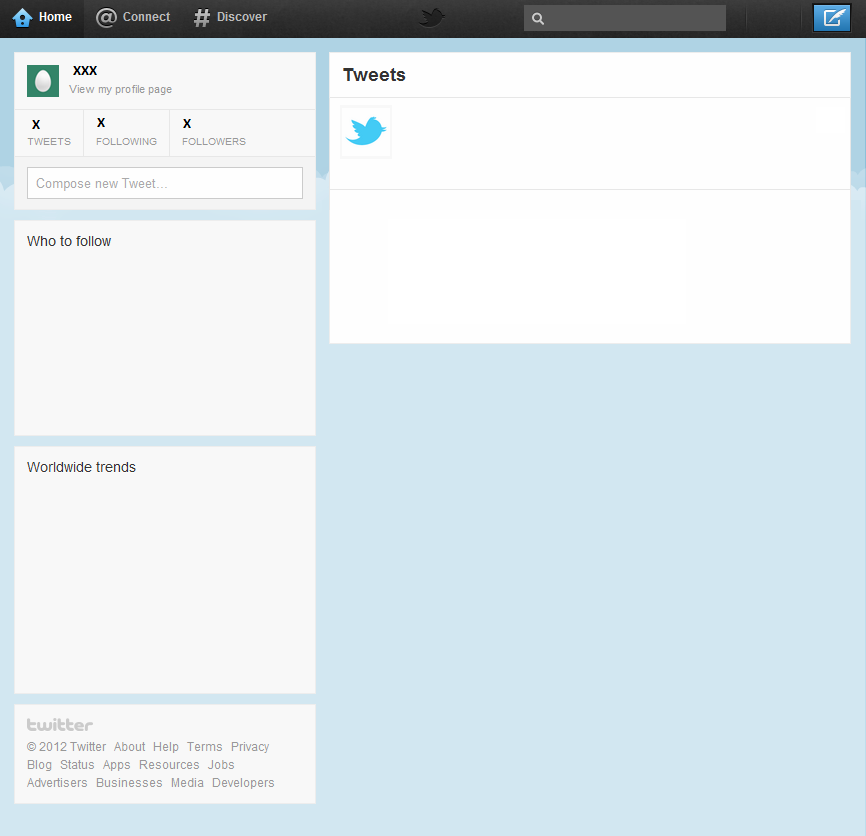
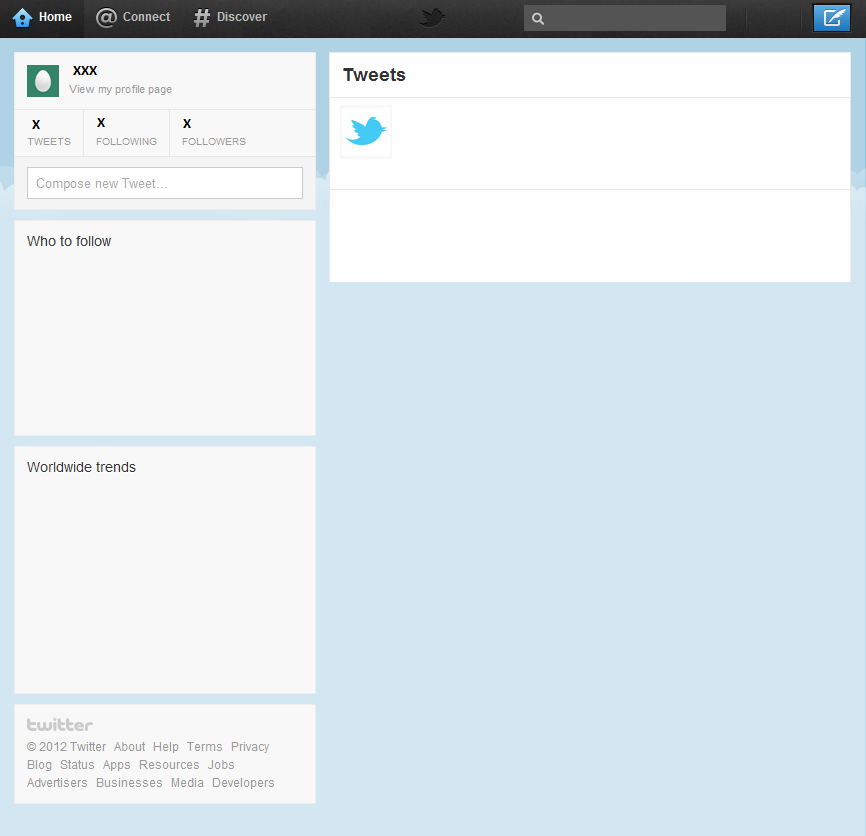
time measures differed per message (action buttons), messages adapted (2different styles)

Changed region(s): [[0.3741, 0.311, 0.9977, 0.4354]]

diff --git a/public/stylesheets/experiment.css b/public/stylesheets/experiment.css
@@ -85,9 +85,10 @@ body {
  top:100px;
 }
 #tweet2{
-	position:relative;
- left:400px;
- top:150px;	
+  position:relative;
+  left:400px;
+  top:150px;
+  heigth: 100px;
 }
 
 #tweeterer{
@@ -96,7 +97,7 @@ body {
   float: left;
  
   position: absolute;
-  left: 73px;
+  left:0px;
   top: 5px;
 }
 
@@ -124,7 +125,7 @@ body {
 #twitter_bild{
   float: left;
   position:absolute;
-  left:15px; top:6px;
+  left:-59px; top:6px;
 }
 .collapse{
 	  float: left;
@@ -512,7 +513,7 @@ textarea#user_search{
   position:relative;
   left:2px; top: 71px;
   width: 100%;
-  height: 100%;
+  height: 39%;
   margin:0 auto;
   color: black;
 }
@@ -522,16 +523,12 @@ textarea#user_search{
   font-size: 0.9em;
   background-color: white;
   position: absolute;
-  bottom: 20px;
+  bottom: 10px;
 
         width: 227px;
         left: 42px;
 }
 
-#time2{
-  position: relative;
-	top:9px;
-}
 
 #connect_button{
 
@@ -613,7 +610,7 @@ textarea#user_search{
   top:-90px;
 }
 #ende{
-  position:relative;
+  position: relative;
   left:160px;
   top: 146px;
   

diff --git a/app/models/user.rb b/app/models/user.rb
@@ -1,18 +1,23 @@
 class User < ActiveRecord::Base
+  serialize :seen_seed
+  
   attr_accessible 	:bildung, :alter, :geschlecht, 
 			:martial_status, :language, :country, :years, :twitter_account, :income, 
 			:area, :children, :employment, :employment_text, :bildung_text, :position, :position_text,
 			:organization, :organization_text, :private_pc, :private_mobile, :work_pc, :work_mobile,
 			:public, :leader_text, :reply_text, :tweet_text, :search,
-			:retweet_time, :favorite_time, :message_hover_time, :reply_time, :new_tweet_time, :retweet_importance,
+			:retweet_time_m1, :favorite_time_m1, :message_hover_time_m1, :open_time_m1, :reply_time_m1,
+			:retweet_time_m2, :favorite_time_m2, :message_hover_time_m2, :open_time_m2, :reply_time_m2, 
+			:new_tweet_time, :search_time,
+			:experiment_time,
+			:retweet_importance,
 			:tweet_text_n,
 			:seen_person,
 			:seen_message_1,:seen_message_2,
 			:seen_multiple_messages,:seen_at,
 			:seen_retweet_message1, :seen_retweet_message2,
 			:ol_1, :ol_2, :ol_3,  :ol_4, :ol_5, :ol_6,  :ol_7,  :ol_8, :ol_9,  :ol_10,  :ol_11, :ol_12, :ol_list, 
-			:open_time, :search_time,  :experiment_time, :connect_clicked,
-			:retweet_1_clicked, :favorite_1_clicked, :expand_1_clicked, :reply_1_clicked,
+			:retweet_1_clicked, :favorite_1_clicked, :expand_1_clicked, :reply_1_clicked,:connect_clicked,
 			:retweet_2_clicked, :favorite_2_clicked, :expand_2_clicked, :reply_2_clicked,
 			:results, :situation,
 			:account_name, :number_followers, :number_followeees, :number_messages,
@@ -20,7 +25,8 @@ class User < ActiveRecord::Base
 			:avg_login, :avg_search_keywords, :avg_search_accounts, :avg_activities_friends, :avg_who_to_follow,
 			:avg_browse_categories, :avg_find_friends, :avg_create_lists, :avg_add_accounts_lists, :avg_subscribe_lists,
 			:avg_delete_accounts_lists, :avg_unfollow_account, :avg_favorite_tweets, :avg_private_replies,
-			:surf_twitter_week, :surf_twitter_weekend
+			:surf_twitter_week, :surf_twitter_weekend,
+			:seen_seed, :batch_id
   
   attr_writer :current_step
   attr_accessor :username
@@ -31,8 +37,9 @@ class User < ActiveRecord::Base
       seed.dirty = true
       seed.save
       self.situation = seed.id
+      self.batch_id = seed.batch_id
+      self.seen_seed = seed.content[0..5]
       self.seen_retweet_message1 = seed.content[0]
-      self.seen_retweet_message2 = seed.content[0] == 0 ? 1 : 0 #immer das gegenteil von retweet message 1
       self.seen_multiple_messages = seed.content[1]
       self.seen_person = generate_person(seed)
       #TODO
@@ -66,7 +73,7 @@ class User < ActiveRecord::Base
       self.seen_message_2 = ""
     elsif self.seen_multiple_messages && self.seen_at
       self.seen_message_1 = "@#{self.account_name} " + message1
-      self.seen_message_2  = message1 # TODO Warum nehmen wir hier nicht message 2? Klären
+      self.seen_message_2  = message2 
     elsif self.seen_multiple_messages && !self.seen_at
       self.seen_message_1 = message1
       self.seen_message_2  = message2
@@ -93,8 +100,8 @@ class User < ActiveRecord::Base
   end
 
   def steps
-      %w[introduction selection demographic internet opinionleader test twitter target]
-      #  interest   
+      %w[ selection opinionleader test twitter target]
+      # introduction demographic internet interest   
   end
   
   def first_step?

diff --git a/db/schema.rb b/db/schema.rb
@@ -9,7 +9,7 @@
 #
 # It's strongly recommended to check this file into your version control system.
 
-ActiveRecord::Schema.define(:version => 20120619225642) do
+ActiveRecord::Schema.define(:version => 20120620161521) do
 
   create_table "opinionleaders", :force => true do |t|
     t.integer  "user_id"
@@ -60,10 +60,10 @@ ActiveRecord::Schema.define(:version => 20120619225642) do
     t.string   "reply_text"
     t.string   "tweet_text"
     t.string   "search"
-    t.float    "retweet_time"
-    t.float    "favorite_time"
-    t.float    "message_hover_time"
-    t.float    "reply_time"
+    t.float    "retweet_time_m1"
+    t.float    "favorite_time_m1"
+    t.float    "message_hover_m1"
+    t.float    "reply_time_m1"
     t.float    "new_tweet_time"
     t.integer  "retweet_importance"
     t.string   "tweet_text_n"
@@ -82,7 +82,7 @@ ActiveRecord::Schema.define(:version => 20120619225642) do
     t.string   "ol_12"
     t.string   "ol_list"
     t.string   "seen_person"
-    t.float    "open_time"
+    t.float    "open_time_m1"
     t.float    "search_time"
     t.boolean  "seen_retweet_message1",     :limit => 255
     t.integer  "expand_2_clicked"
@@ -135,6 +135,13 @@ ActiveRecord::Schema.define(:version => 20120619225642) do
     t.integer  "surf_twitter_week"
     t.integer  "surf_twitter_weekend"
     t.integer  "avg_private_replies"
+    t.integer  "seen_seed"
+    t.integer  "batch_id"
+    t.float    "retweet_time_m2"
+    t.float    "favorite_time_m2"
+    t.float    "message_hover_m2"
+    t.float    "reply_time_m2"
+    t.float    "open_time_m2"
   end
 
 end

diff --git a/db/migrate/20120620161521_change_and_add_time_variables_to_user.rb b/db/migrate/20120620161521_change_and_add_time_variables_to_user.rb
@@ -1,0 +1,18 @@
+class ChangeAndAddTimeVariablesToUser < ActiveRecord::Migration
+  def self.up
+    rename_column :users, :retweet_time, :retweet_time_m1
+    rename_column :users, :favorite_time, :favorite_time_m1
+    rename_column :users, :message_hover_time, :message_hover_m1
+    rename_column :users, :reply_time, :reply_time_m1
+    rename_column :users, :open_time, :open_time_m1
+    add_column :users, :retweet_time_m2, :float
+    add_column :users, :favorite_time_m2, :float
+    add_column :users, :message_hover_m2, :float
+    add_column :users, :reply_time_m2, :float
+    add_column :users, :open_time_m2, :float
+
+  end
+
+  def self.down
+  end
+end

diff --git a/db/migrate/20120620141012_add_seed_id_to_user.rb b/db/migrate/20120620141012_add_seed_id_to_user.rb
@@ -1,0 +1,9 @@
+class AddSeedIdToUser < ActiveRecord::Migration
+  def self.up
+    add_column :users, :seed_id, :integer
+    add_column :users, :batch_id, :integer
+  end
+
+  def self.down
+  end
+end

diff --git a/db/migrate/20120620145442_change_seed_id_in_user.rb b/db/migrate/20120620145442_change_seed_id_in_user.rb
@@ -1,0 +1,8 @@
+class ChangeSeedIdInUser < ActiveRecord::Migration
+  def self.up
+    rename_column :users, :seed_id, :seen_seed
+  end
+
+  def self.down
+  end
+end
